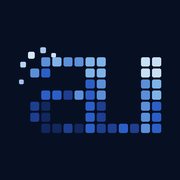
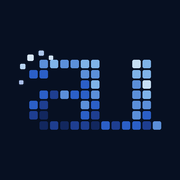
The sign finds its two voices
Canonical blue wherever the company faces the world: favicon, app
tiles, push badge, invoice paper. Room-lit in the chrome: the same
gradient arithmetic over the house tokens, so the mark and the
wordmark relight with every palette and both suns, and in the
Royal default the voices agree to the tile. The physical shop
sign added the u's kicking foot to the grid.

Changed region(s): [[0.0833, 0.25, 0.9167, 0.75]]

diff --git a/src/components/Mosaic.tsx b/src/components/Mosaic.tsx
@@ -24,13 +24,13 @@ const tone = (i: number) => PALETTE[(i * 7 + 3) % PALETTE.length];
    and the u's left wall are one shared stroke, a ligature, and the
    two bases meet at its foot. */
 const AU_GRID = [
-  ".######...##",
-  "##...##...##",
-  ".....##...##",
-  ".######...##",
-  "##...##...##",
-  "##...##...##",
-  ".###########",
+  ".######...##.",
+  "##...##...##.",
+  ".....##...##.",
+  ".######...##.",
+  "##...##...##.",
+  "##...##...##.",
+  ".############",
 ];
 /* The light lives in the sign: his tiles run deep navy at the
    bottom-left and brighten to glass at the top-right, with a hash
@@ -39,11 +39,27 @@ const AU_GRID = [
    scripts/brand-icons.py. */
 const AU_RAMP = ["#12275e", "#1e3e90", "#2b5fc7", "#5b8fd9", "#7fb3e8", "#c8e0f5"];
 
-function auTone(r: number, c: number, rows: number, cols: number, i: number) {
+/* Two voices, one sign. Brand: the canonical blues, for every
+   surface that is the company's identity to the outside (icons,
+   badges, paper). Room: the same arithmetic over the house tokens,
+   so inside the site and the office the mark relights with the
+   palette and the sun; in the Royal default the two voices agree. */
+const AU_ROOM_RAMP = [
+  "var(--color-gold-deep)",
+  "var(--color-gold-deep)",
+  "var(--color-gold)",
+  "var(--color-gold)",
+  "var(--color-ink)",
+  "var(--color-ink)",
+];
+
+export type AuVoice = "room" | "brand";
+
+function auTone(ramp: string[], r: number, c: number, rows: number, cols: number, i: number) {
   const w = 0.55 * (1 - r / (rows - 1)) + 0.45 * (c / (cols - 1));
   const jitter = (((i * 13 + 5) % 5) - 2) * 0.35;
-  const idx = Math.min(AU_RAMP.length - 1, Math.max(0, Math.round(w * (AU_RAMP.length - 1) + jitter)));
-  return AU_RAMP[idx];
+  const idx = Math.min(ramp.length - 1, Math.max(0, Math.round(w * (ramp.length - 1) + jitter)));
+  return ramp[idx];
 }
 
 /* Loose tesserae scattering off the a's shoulder, the sign still
@@ -56,10 +72,11 @@ const AU_SCATTER: Array<[number, number, number, number, number]> = [
   [30, 6, 4, 4, 0.35],
 ];
 
-export function AuMark({ className = "" }: { className?: string }) {
+export function AuMark({ className = "", voice = "room" }: { className?: string; voice?: AuVoice }) {
   const T = 10;
   const rows = AU_GRID.length;
   const cols = AU_GRID[0].length;
+  const ramp = voice === "brand" ? AU_RAMP : AU_ROOM_RAMP;
   /* A small margin on the top and left gives the scattered tiles
      room to float off the a's shoulder. */
   const MX = 10;
@@ -80,7 +97,7 @@ export function AuMark({ className = "" }: { className?: string }) {
           width={T - 2}
           height={T - 2}
           rx="2"
-          fill={auTone(r, c, rows, cols, i)}
+          fill={auTone(ramp, r, c, rows, cols, i)}
         />
       );
     }
@@ -88,7 +105,7 @@ export function AuMark({ className = "" }: { className?: string }) {
   return (
     <svg viewBox={`0 0 ${w} ${h}`} className={className} aria-hidden>
       {AU_SCATTER.map(([x, y, s, t, o], k) => (
-        <rect key={`s${k}`} x={x} y={y} width={s} height={s} rx="1.2" fill={AU_RAMP[t]} opacity={o} />
+        <rect key={`s${k}`} x={x} y={y} width={s} height={s} rx="1.2" fill={ramp[t]} opacity={o} />
       ))}
       {tiles}
     </svg>
@@ -100,10 +117,10 @@ export function AuMark({ className = "" }: { className?: string }) {
    picks its legible blue per sun through the brand-word rules in
    globals; the palettes have no say, because a sign is a sign. Size
    the lockup with a font-size on the wrapper: the mark rides at 1em. */
-export function AuLockup({ className = "" }: { className?: string }) {
+export function AuLockup({ className = "", voice = "room" }: { className?: string; voice?: AuVoice }) {
   return (
     <span className={`inline-flex items-center gap-[0.3em] ${className}`}>
-      <AuMark className="h-[1.12em] w-auto shrink-0" />
+      <AuMark voice={voice} className="h-[1.12em] w-auto shrink-0" />
       <span className="brand-word font-serif text-[1.4em] leading-none">mosaic</span>
     </span>
   );

diff --git a/src/app/globals.css b/src/app/globals.css
@@ -265,19 +265,22 @@ p { text-wrap: pretty; }
 }
 
 /* The sign's word: gradient glass like his print, light falling
-   from the top, palette-blind like the tesserae beside it. Exempt
-   from the text gate as a logotype; the link around it carries the
-   name. Each sun gets the gradient that reads on its ground. */
+   from the top. In the chrome it reads the house tokens, so the
+   word relights with the palette and the sun; in the Royal default
+   the tokens ARE the brand blues, so the print look holds at the
+   front door. Exempt from the text gate as a logotype; the link
+   around it carries the name. */
 .brand-word {
-  color: #7fb3e8;
-  background-image: linear-gradient(180deg, #c8e0f5 0%, #7fb3e8 55%, #2b5fc7 100%);
+  color: var(--color-gold);
+  background-image: linear-gradient(
+    180deg,
+    color-mix(in srgb, var(--color-gold) 45%, white) 0%,
+    var(--color-gold) 55%,
+    var(--color-gold-deep) 100%
+  );
   -webkit-background-clip: text;
   background-clip: text;
   -webkit-text-fill-color: transparent;
-}
-[data-theme="light"] .brand-word {
-  color: #2456c4;
-  background-image: linear-gradient(180deg, #7fb3e8 0%, #2456c4 60%, #1e3e90 100%);
 }
 
 /* Hairline-underline link that draws itself on hover. Inline-flex,

diff --git a/src/app/admin/invoice/[id]/page.tsx b/src/app/admin/invoice/[id]/page.tsx
@@ -78,7 +78,8 @@ export default async function InvoicePage({ params }: { params: Promise<{ id: st
         <header className="flex items-start justify-between gap-8">
           <div>
             <div className="flex items-center gap-2.5 text-[#17150F]">
-              <AuMark className="h-[15px] w-auto" />
+              {/* Paper carries the canonical sign: toner has one theme. */}
+              <AuMark voice="brand" className="h-[15px] w-auto" />
               <span className="text-[11px] font-semibold uppercase tracking-[0.18em]">
                 Mosaic
               </span>

diff --git a/scripts/brand-icons.py b/scripts/brand-icons.py
@@ -8,13 +8,13 @@ from PIL import Image, ImageDraw
 # Joined as his sign joins them: the a's stem and the u's left wall
 # share one stroke, and the bases meet at its foot.
 GRID = [
-    ".######...##",
-    "##...##...##",
-    ".....##...##",
-    ".######...##",
-    "##...##...##",
-    "##...##...##",
-    ".###########",
+    ".######...##.",
+    "##...##...##.",
+    ".....##...##.",
+    ".######...##.",
+    "##...##...##.",
+    "##...##...##.",
+    ".############",
 ]
 
 # The light lives in the sign: deep navy bottom-left brightening to

diff --git a/docs/QA.md b/docs/QA.md
@@ -295,6 +295,7 @@ until a logo asset exists.
 | The maison takes its voice back | The owner's verdict executed with a knife, not a hammer. Reverted: the hero's borrowed flyer voice (No. 1 in Nigeria returns to Spaces that begin with water, Ask for samples returns to Begin a project, the eyebrow says Lagos again), the profile-promise pillar section and its chips leave the home page, and the tagline stands back up as The house of mosaic. Kept, because data is not voice: brand.ts and BRAND.md, the trade names and variants in the book, the Shop 17A address, telegram, the contact and footer fact links, the search-plain meta, and the samples line in the WhatsApp openers. CODEX.md now stands at the root so any agent who opens this repo learns the law the hard lesson taught: take the brand's identity, never its flyer voice. Lint clean, 45 routes build. |
 | The letters join hands | Working inside the bitmap on the owner's word: his sign ties the a and the u through one shared stroke, so the mark now does the same. The gap column retires, the a's stem and the u's left wall become the same two columns of tiles, and the two bases meet at the joint's foot. Twelve columns instead of fifteen, one ligature instead of two letters standing apart, mirrored in the SVG and the icon script alike, icons regenerated and eye-checked against the avatar. The sampled pixel-perfect mark stays on the board for the day the source file lands. Lint clean, 45 routes build. |
 | The sign learns its light | The owner brought the flyer-resolution lockup and three truths appeared that the avatar hid: his tiles carry a diagonal light, deep navy at the bottom-left rising to glass at the top-right; loose tesserae scatter off the a's shoulder like the sign is still assembling; and the wordmark is gradient glass, not flat blue. All three land in the bitmap space he chose to work in: position picks each tile's tone from a six-step ramp with hash jitter breaking the banding, five scattered tiles float in a new margin, the word wears its vertical gradient per sun through background-clip, and the lockup tightens to his gap. SVG and icon script share the same arithmetic; icons regenerated and eye-checked. Still waiting on the source file for the tile-for-tile sample. Lint clean, 45 routes build. |
+| The sign finds its two voices | The owner's ruling, and the right one: the blue sign is canonical wherever the company faces the world, and the chrome relights with the house. The mark gains a voice: brand keeps the fixed blues for the favicon, the app tiles, the push badge, and the invoice paper, because toner has one theme; room runs the same gradient arithmetic over the palette tokens, so the header, footer, and office mark follow every house and both suns, and in the Royal default the two voices agree to the tile. The wordmark's gradient goes token-driven the same way. And the physical shop sign taught one more letterform truth: the u's foot kicks right past its stem, so the grid grew its thirteenth column. Icons regenerated canonical; the print lockup's lowercase serif stays the digital lockup. Lint clean, 45 routes build. |
 | The boundary audit, checklist one | The owner's first stacked checklist, run and written. The walk found two missing doors and one scattered truth. The public flagship had no error boundary at all: a client crash (the visualizer being the likeliest) would have shown a customer the machinery; the maison now answers with a calm line, a gold Try again, and the chat that never goes down, while details whisper only to the console. Office 404s used to walk the owner out to the shop window; That page is not in the book now keeps him inside, one gold back to the glance. And rowsOf moved home: one normaliser owned by src/db, imported at every raw execute (insights, panel layout, digest), so no room maps the driver envelope again. Verified in the same pass: redirects and notFound throw outside every try, actions answer in sentences instead of throwing at the UI, the panel layout re-checks the door on every render so Try again cannot swallow an auth redirect, and global-error stays honestly Missing, accepted, until the static shell ever earns one. The audit table lives in SAAS-QA. Lint clean, 44 routes build. |
 | The float steps aside on piece pages | The owner's design question, answered by the house's own laws. The WhatsApp float is the one saturated brand-foreign colour in the maison (the palette law says no saturated fills), it competes with the gold singleton (standing rule 19), and it speaks Material where the house speaks HIG. On piece pages it was strictly redundant: the piece bar already carries the same WhatsApp action in house clothes, and the two shared the bottom edge. So it steps aside there, one floating chrome per screen. Everywhere else it keeps its seat for now, because Lagos knows the green circle and law 6 says commerce stays human. The verdict on the rest belongs to evidence: the float signs its taps (data-wa float), so the Where the taps come from panel decides in a few weeks whether it stays, dresses in house clothes, or retires. Lint clean, 44 routes build. |
 | Stock moves, and the phone is told | Item 7, the last on the handoff. The domain decision landed as written: crossing into delivered takes each line's quantity off its piece, clamped at zero (never below the visible truth), walking back out returns it, and every movement signs the history per line ("took stock for a delivery · 6 sheets out, 14 left"). The action sentence learned arithmetic: a delivery that pushes a piece across warn-me-at answers "Delivered. {piece} is running low: {qty} {unit} left." The spine is Web Push, the one justified dependency: push_subscriptions (migration 0005, endpoints go inactive, never deleted), VAPID keys in env with .env.example placeholders, sw push and notificationclick handlers that open the room that asked, and Notify this phone in Settings with the iPhone install caveat written where he reads it. The rhythm honours the attention root: one digest at 08:00 Lagos (Vercel Cron, CRON_SECRET guarded) saying only what needs him, "The house is calm" when nothing does, plus true crossings the moment they happen. Nothing else, ever. Lint clean, 44 routes build. |